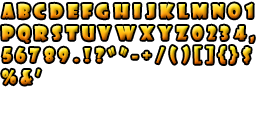
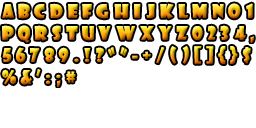
- [83]+[99] Renamed a few variables and fixed the font + unified the gui-images - changed state-manager to use unique_ptr and not shared_ptr

Changed region(s): [[0.1562, 0.5312, 0.3125, 0.6875]]

diff --git a/Source/FirstParty/AllInOneSolution/AllInOneSolution/Core/gui/hud/TimeHUD.cpp b/Source/FirstParty/AllInOneSolution/AllInOneSolution/Core/gui/hud/TimeHUD.cpp
@@ -16,7 +16,8 @@ TimeHUD::TimeHUD(ResourceManager& resourceManager,
 {
     m_label.setAlignment(LineLabel::Left);
     m_label.setText(m_minutes + " " + m_seconds);
-    m_clockTexture.setTexture(*m_resourceManager.getTexture("clockmini"));
+    m_clock.setTexture(*m_resourceManager.getTexture("guiMisc"));
+    m_clock.setTextureRect(sf::IntRect(22, 0, 22, 22));
 }
 
 void TimeHUD::setTime(int totalSeconds)
@@ -41,14 +42,14 @@ void TimeHUD::update(const DrawParameter& params)
 {
     LabelHUD::update(params);
 
-    m_label.setText(m_minutes + " " + m_seconds);
+    m_label.setText(m_minutes + ":" + m_seconds);
 
-    m_clockTexture.setPosition(m_label.getPosition().x - 10 - m_clockTexture.getTextureRect().width,
+    m_clock.setPosition(m_label.getPosition().x - 10 - m_clock.getTextureRect().width,
         m_label.getPosition().y);
 }
 
 void TimeHUD::draw(const DrawParameter& params)
 {
-   params.getTarget().draw(m_clockTexture);
+   params.getTarget().draw(m_clock);
    LabelHUD::draw(params);
 }

diff --git a/Source/FirstParty/AllInOneSolution/AllInOneSolution/Core/gui/hud/BallHUD.cpp b/Source/FirstParty/AllInOneSolution/AllInOneSolution/Core/gui/hud/BallHUD.cpp
@@ -14,7 +14,8 @@ BallHUD::BallHUD(ResourceManager& resourceManager,
 {
     m_label.setAlignment(LineLabel::Right);
     m_label.setText(" " + utility::toString<int>(m_remainingBall));
-    m_ballTexture.setTexture(*m_resourceManager.getTexture("ballmini"));
+    m_ball.setTexture(*m_resourceManager.getTexture("guiMisc"));
+    m_ball.setTextureRect(sf::IntRect(0, 0, 22, 22));
 }
 
 void BallHUD::setBalls(int remainingBall)
@@ -28,13 +29,13 @@ void BallHUD::update(const DrawParameter& params)
 
     m_label.setText(" " + utility::toString<int>(m_remainingBall));
 
-    m_ballTexture.setPosition(m_label.getPosition().x
-        - m_label.getWidth() - m_ballTexture.getTextureRect().width,
+    m_ball.setPosition(m_label.getPosition().x
+        - m_label.getWidth() - m_ball.getTextureRect().width,
         m_label.getPosition().y);
 }
 
 void BallHUD::draw(const DrawParameter& params)
 {
-   params.getTarget().draw(m_ballTexture);
+   params.getTarget().draw(m_ball);
    LabelHUD::draw(params);
 }

diff --git a/Source/FirstParty/AllInOneSolution/AllInOneSolution/Core/StateManager.hpp b/Source/FirstParty/AllInOneSolution/AllInOneSolution/Core/StateManager.hpp
@@ -21,7 +21,7 @@ public:
 
     StateManager(sf::RenderWindow& screen);
 
-	void registerState(StateId id, std::shared_ptr<State> state);
+	void registerState(StateId id, std::unique_ptr<State> state);
     void setState(StateId id, EnterStateInformation* enterInformation = nullptr);
 
     void draw();
@@ -34,7 +34,7 @@ private:
     sf::RenderWindow& m_screen;
     sf::Clock m_frametime;
     float m_currentTime;
-	std::map<StateId, std::shared_ptr<State>> m_statesById;
+	std::map<StateId, std::unique_ptr<State>> m_statesById;
     State* m_currentState;
     StateId m_currentStateId;
     std::unique_ptr<Level> m_currentLevel;

diff --git a/Source/FirstParty/AllInOneSolution/AllInOneSolution/Core/StateManager.cpp b/Source/FirstParty/AllInOneSolution/AllInOneSolution/Core/StateManager.cpp
@@ -15,13 +15,13 @@ StateManager::StateManager(sf::RenderWindow& screen) :
 {
 }
 
-void StateManager::registerState(StateId id, std::shared_ptr<State> state)
+void StateManager::registerState(StateId id, std::unique_ptr<State> state)
 {
     auto existingState = m_statesById.find(id);
     if(existingState != end(m_statesById))
         throw std::runtime_error(utility::replace(utility::translateKey("StateExist"), utility::toString(id)));
 
-    m_statesById[id] = state;
+    m_statesById[id] = std::move(state);
 }
 
 void StateManager::setState(StateId id, EnterStateInformation* enterInformation)

diff --git a/Source/FirstParty/AllInOneSolution/AllInOneSolution/Core/gui/hud/BallHUD.hpp b/Source/FirstParty/AllInOneSolution/AllInOneSolution/Core/gui/hud/BallHUD.hpp
@@ -11,7 +11,7 @@ class BallHUD : public LabelHUD
 private:
     int m_remainingBall;
 
-    sf::Sprite m_ballTexture;
+    sf::Sprite m_ball;
     ResourceManager& m_resourceManager;
 
 public:

diff --git a/Source/FirstParty/AllInOneSolution/AllInOneSolution/Core/gui/hud/TimeHUD.hpp b/Source/FirstParty/AllInOneSolution/AllInOneSolution/Core/gui/hud/TimeHUD.hpp
@@ -12,7 +12,7 @@ private:
 
     int m_totalSeconds;
 
-    sf::Sprite m_clockTexture;
+    sf::Sprite m_clock;
     ResourceManager& m_resourceManager;
 
 public:
